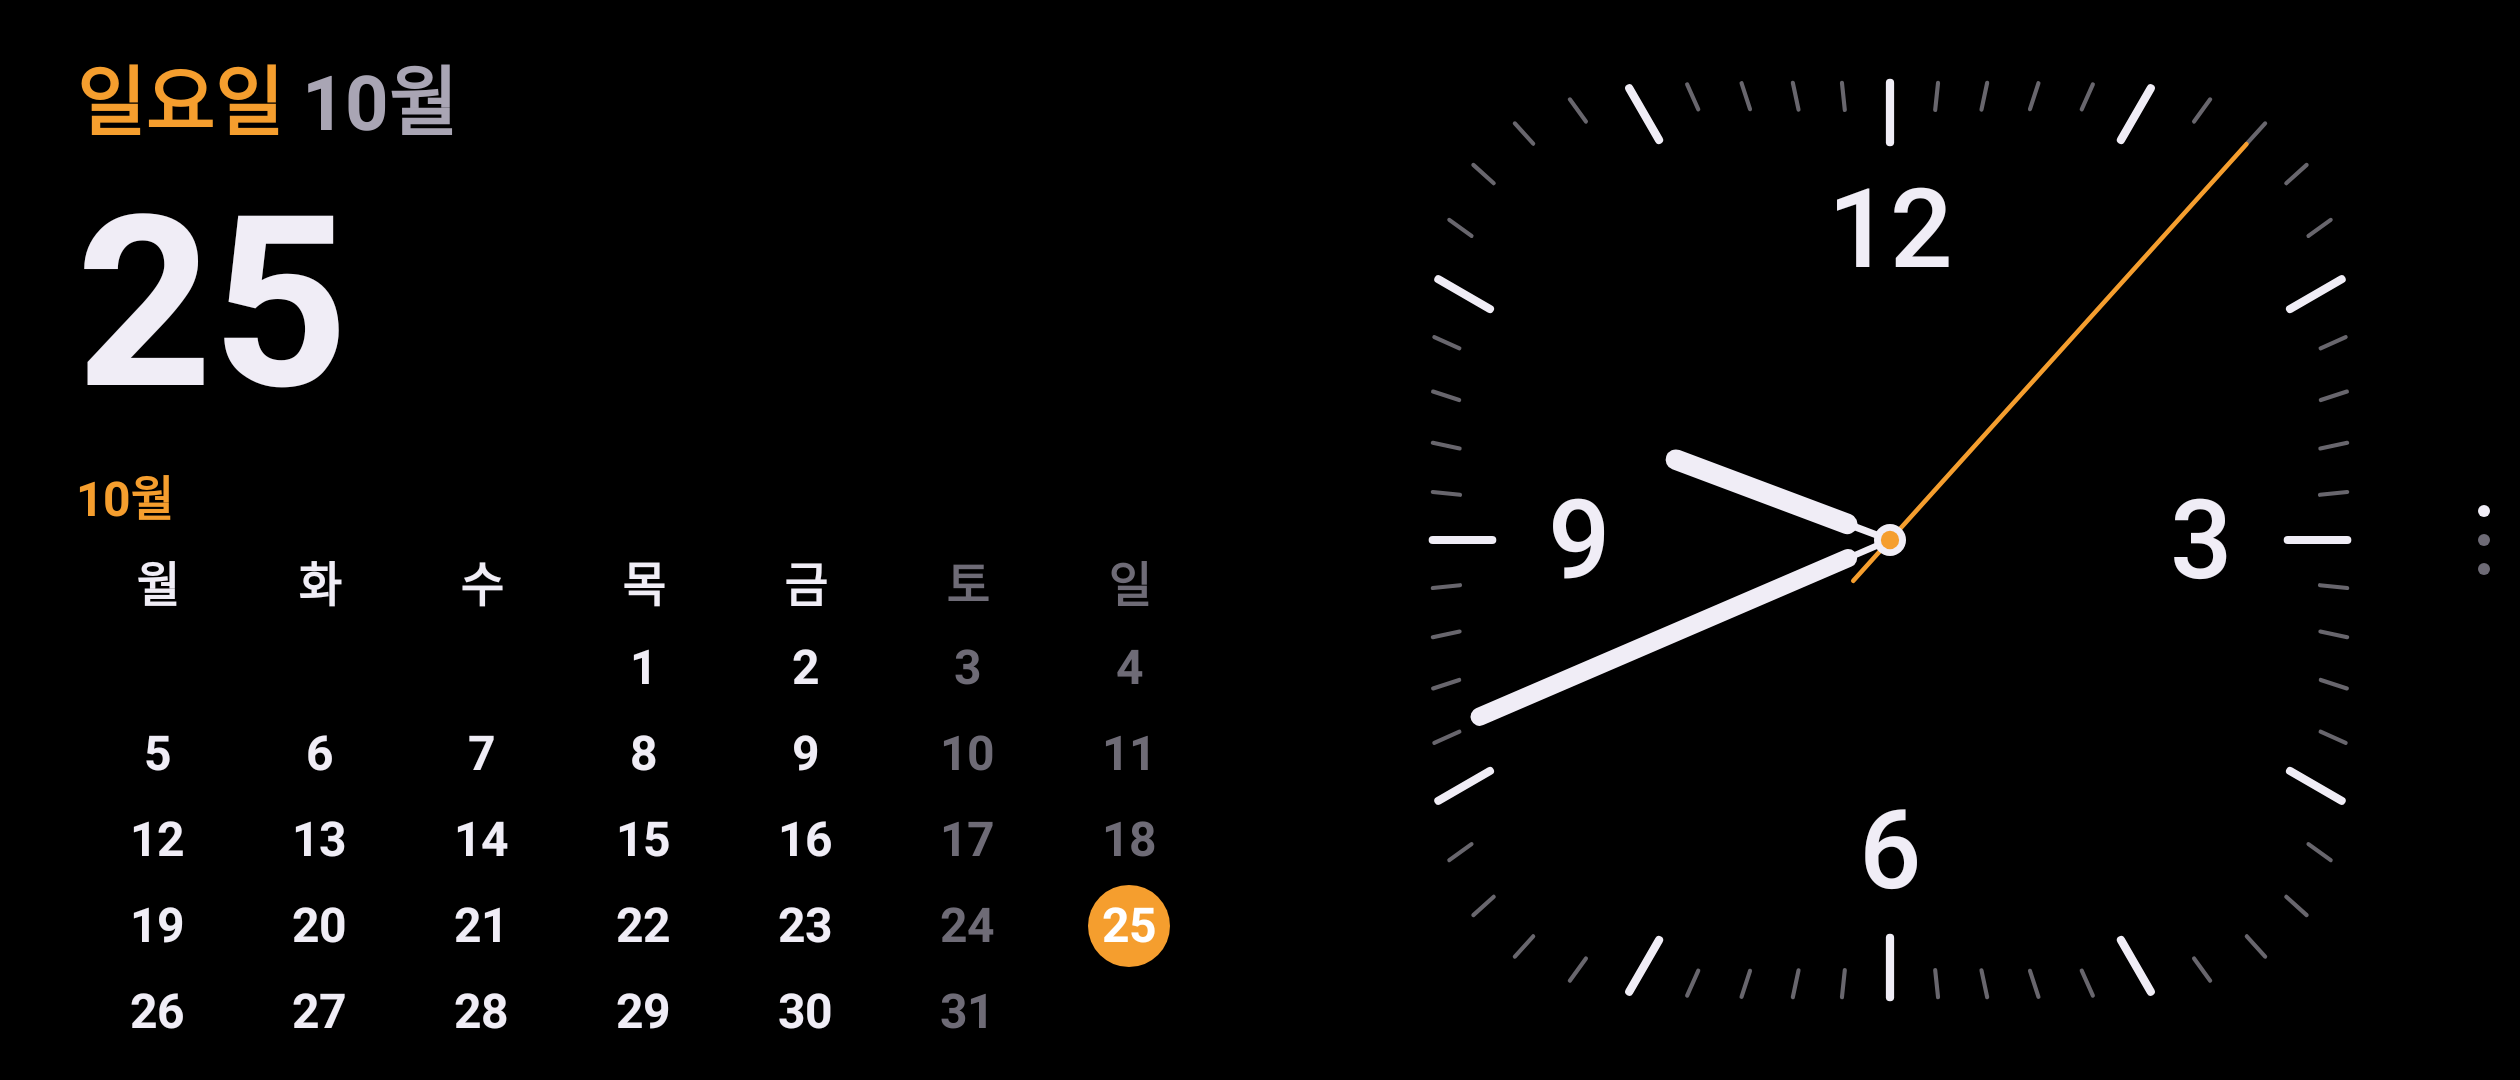
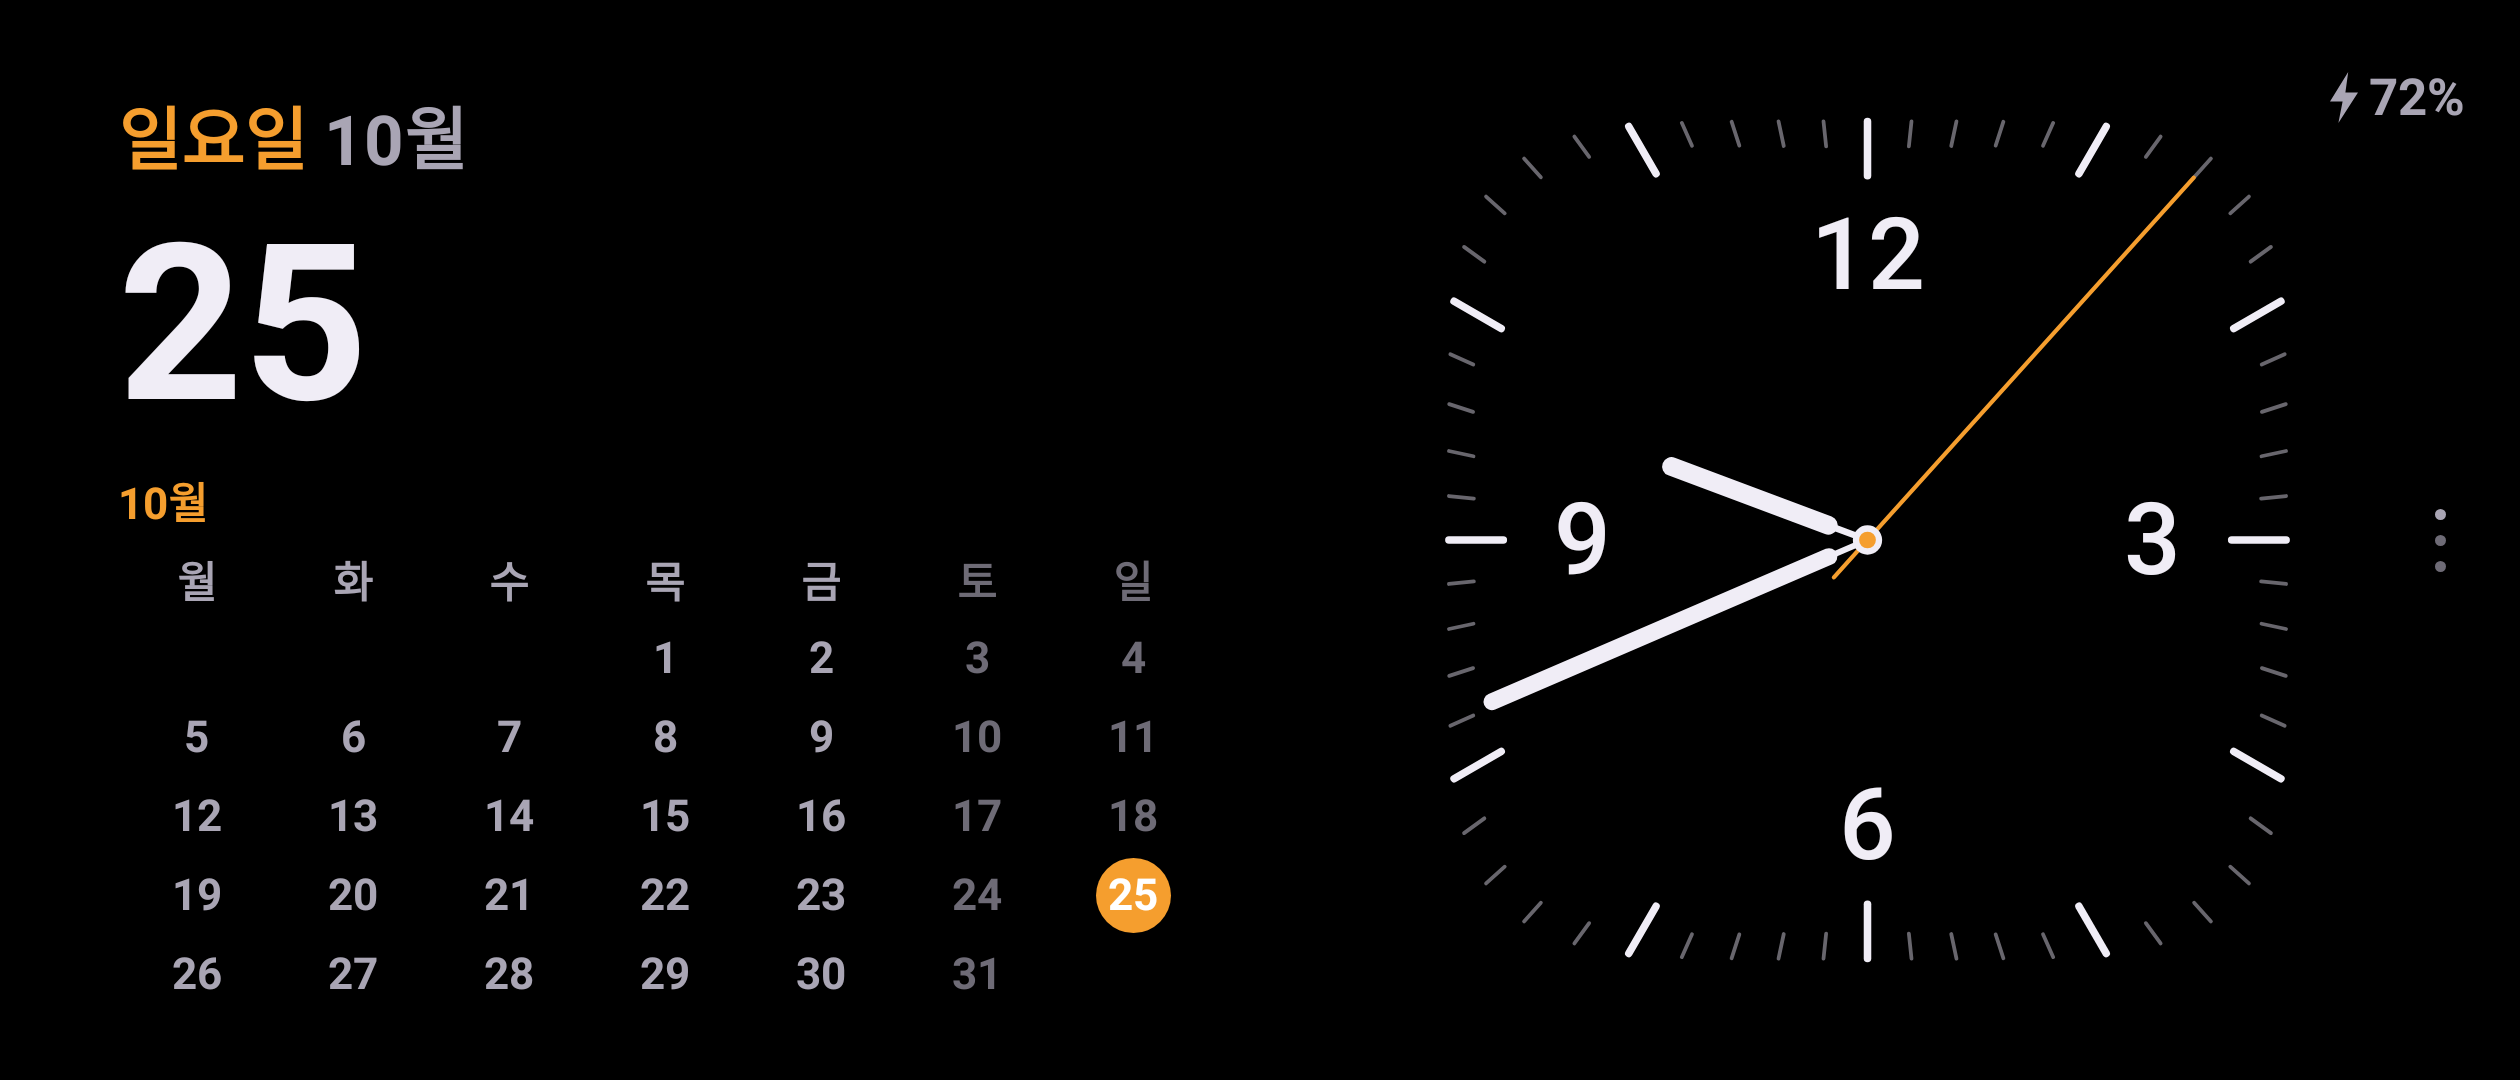
v1.1.0-beta.5: 충전 중 배터리 잔량 표시(versionCode 7)
달력과 시계가 함께 나오는 화면 오른쪽 위에 배터리 잔량을 작은 회색 숫자로 보여준다.
- 실제로 채우는 중일 때만 번개를 붙인다(EXTRA_STATUS). 배터리 보호로 멈췄거나 가득 차면 숫자만.
- 충전이 끊겨도 번개는 5초 뒤에 끈다(무선 충전기 깜빡임 방지).
- 설정에 "배터리 잔량 보이기/숨기기"(기본 보이기).
- 스냅숏 기준 그림, CHANGELOG, README(설정·번인 주의) 갱신.

Claude-Session: https://claude.ai/code/session_01GBcjV4vr6SYp3dQzTQ8mtV

diff --git a/app/src/main/java/com/marksnd/foldstandby/ui/StandbyScreen.kt b/app/src/main/java/com/marksnd/foldstandby/ui/StandbyScreen.kt
@@ -8,7 +8,11 @@ import androidx.compose.foundation.background
 import androidx.compose.foundation.layout.Arrangement
 import androidx.compose.foundation.layout.Box
 import androidx.compose.foundation.layout.BoxWithConstraints
+import androidx.compose.foundation.Canvas
 import androidx.compose.foundation.layout.Column
+import androidx.compose.foundation.layout.Row
+import androidx.compose.foundation.layout.Spacer
+import androidx.compose.foundation.layout.width
 import androidx.compose.foundation.layout.WindowInsets
 import androidx.compose.foundation.layout.displayCutout
 import androidx.compose.foundation.layout.fillMaxSize
@@ -36,6 +40,7 @@ import kotlinx.coroutines.delay
 import androidx.compose.runtime.rememberUpdatedState
 import androidx.compose.runtime.setValue
 import androidx.compose.ui.Alignment
+import androidx.compose.ui.graphics.Path
 import androidx.compose.ui.Modifier
 import androidx.compose.ui.graphics.Brush
 import androidx.compose.ui.graphics.Color
@@ -227,7 +232,7 @@ fun StandbyScreen(
                 // 윗면은 시계, 아랫면은 날짜와 오늘·내일 일정.
                 Column(Modifier.fillMaxSize().padding(range).offset { shift }) {
                     Box(Modifier.fillMaxWidth().weight(1f).windowInsetsPadding(WindowInsets.displayCutout)) {
-                        StandbyPages(store, settings, night, openCount, agenda, nextAlarm, deskBelow = true)
+                        StandbyPages(store, settings, night, openCount, agenda, nextAlarm, deskBelow = true, showBattery = settings.showBattery)
                     }
                     Box(Modifier.fillMaxWidth().weight(1f)) {
                         CalendarFace(today, agenda, showTime = false)
@@ -243,7 +248,7 @@ fun StandbyScreen(
                 ) {
                     val strip = layout == ScreenLayout.WithAgendaStrip
                     Box(Modifier.fillMaxWidth().weight(if (strip) 5f else 1f)) {
-                        StandbyPages(store, settings, night, openCount, agenda, nextAlarm, deskBelow = false)
+                        StandbyPages(store, settings, night, openCount, agenda, nextAlarm, deskBelow = false, showBattery = settings.showBattery)
                     }
                     if (strip) {
                         AgendaStrip(agenda, Modifier.fillMaxWidth().weight(1f))
@@ -282,6 +287,7 @@ private fun StandbyPages(
     agenda: AgendaState,
     nextAlarm: Long?,
     deskBelow: Boolean,
+    showBattery: Boolean,
 ) {
     val korean = LocalKorean.current
     // 열 때마다 시계 보기의 달력+시계로 시작한다(마지막에 본 보기를 기억하지 않는다).
@@ -301,7 +307,7 @@ private fun StandbyPages(
 
     HorizontalPager(pager, Modifier.fillMaxSize()) { page ->
         when (page) {
-            0 -> ClockPage(store, openCount, smoothNow, tick, today, night, photos, weather, media, agenda, nextAlarm, deskBelow)
+            0 -> ClockPage(store, openCount, smoothNow, tick, today, night, photos, weather, media, agenda, nextAlarm, deskBelow, showBattery)
             1 -> WeatherPage(weather)
             else -> NowPlayingPage(media, tick)
         }
@@ -322,13 +328,14 @@ private fun ClockPage(
     agenda: AgendaState,
     nextAlarm: Long?,
     deskBelow: Boolean,
+    showBattery: Boolean,
 ) {
     val inner = innerDisplay()
     BoxWithConstraints(Modifier.fillMaxSize()) {
         if (clockPageLayout(inner, maxWidth, maxHeight, deskBelow) == ClockPageLayout.UnfoldedStack) {
             UnfoldedFace(store, now, tick, today, night, photos, weather, media)
         } else {
-            ClockStyles(openCount, now, today, night, weather, agenda, nextAlarm, deskBelow)
+            ClockStyles(openCount, now, today, night, weather, agenda, nextAlarm, deskBelow, showBattery)
         }
     }
 }
@@ -343,6 +350,7 @@ private fun ClockStyles(
     agenda: AgendaState,
     nextAlarm: Long?,
     deskBelow: Boolean,
+    showBattery: Boolean,
 ) {
     val count = clockStyleCount(deskBelow)
     val styles = rememberPagerState { count }
@@ -367,6 +375,45 @@ private fun ClockStyles(
             }
         }
         StyleDots(count, styles.currentPage, Modifier.align(Alignment.CenterEnd))
+        // 달력과 시계가 함께 나오는 스타일에서만 오른쪽 위에 보인다. 화면 이동 범위 안쪽이라 함께 움직인다.
+        if (showBattery && !deskBelow && styles.currentPage == 0) {
+            BatteryLabel(Modifier.align(Alignment.TopEnd))
+        }
+    }
+}
+
+/** 배터리 잔량: 작은 회색 숫자. 실제로 채우는 중이면 번개를 앞에 붙인다(배터리 보호로 멈췄거나 가득 차면 숫자만). 쉬는 화면·야간은 팔레트가 알아서 어둡게 한다. */
+@Composable
+private fun BatteryLabel(modifier: Modifier) {
+    val battery by LocalStandbySources.current.battery()
+    val color = LocalPalette.current.secondary
+    // 무선 충전기는 충전을 잠깐씩 끊으므로, 번개는 켤 때 바로 켜고 끌 때는 몇 초 기다렸다 끈다(깜빡임 방지).
+    var bolt by remember { mutableStateOf(battery.filling) }
+    LaunchedEffect(battery.filling) {
+        if (!battery.filling) delay(BOLT_OFF_DELAY_MS)
+        bolt = battery.filling
+    }
+    Row(modifier.padding(top = 8.dp, end = 4.dp), verticalAlignment = Alignment.CenterVertically) {
+        if (bolt) {
+            Canvas(Modifier.size(width = 10.dp, height = 18.dp)) {
+                val w = size.width
+                val h = size.height
+                drawPath(
+                    Path().apply {
+                        moveTo(w * 0.65f, 0f)
+                        lineTo(0f, h * 0.58f)
+                        lineTo(w * 0.45f, h * 0.58f)
+                        lineTo(w * 0.3f, h)
+                        lineTo(w, h * 0.4f)
+                        lineTo(w * 0.55f, h * 0.4f)
+                        close()
+                    },
+                    color,
+                )
+            }
+            Spacer(Modifier.width(4.dp))
+        }
+        Label("${battery.percent}%", 18.dp, color)
     }
 }
 
@@ -387,3 +434,6 @@ fun StyleDots(count: Int, current: Int, modifier: Modifier) {
         }
     }
 }
+
+/** 충전이 끊긴 뒤 번개를 끄기까지 기다리는 시간. 무선 충전기가 충전을 다시 알리기까지 걸리는 시간보다 길게. */
+private const val BOLT_OFF_DELAY_MS = 5_000L

diff --git a/app/src/main/java/com/marksnd/foldstandby/ui/StandbySources.kt b/app/src/main/java/com/marksnd/foldstandby/ui/StandbySources.kt
@@ -8,10 +8,12 @@ import androidx.compose.runtime.staticCompositionLocalOf
 import androidx.compose.ui.graphics.ImageBitmap
 import androidx.compose.ui.unit.IntOffset
 import com.marksnd.foldstandby.data.AgendaState
+import com.marksnd.foldstandby.data.BatteryInfo
 import com.marksnd.foldstandby.data.MediaState
 import com.marksnd.foldstandby.data.WeatherState
 import com.marksnd.foldstandby.data.rememberAgenda
 import com.marksnd.foldstandby.data.rememberAlbumPhotos
+import com.marksnd.foldstandby.data.rememberBattery
 import com.marksnd.foldstandby.data.rememberIsDark
 import com.marksnd.foldstandby.data.rememberLastMotion
 import com.marksnd.foldstandby.data.rememberLocked
@@ -36,6 +38,7 @@ interface StandbySources {
     @Composable fun nowPlaying(): State<MediaState>
     @Composable fun albumPhotos(albumId: Long?): State<List<Uri>>
     @Composable fun nextAlarm(): State<Long?>
+    @Composable fun battery(): State<BatteryInfo>
     @Composable fun isDark(): State<Boolean>
     @Composable fun lastMotion(enabled: Boolean): State<Long>
     @Composable fun pixelShift(rangePx: Int): State<IntOffset>
@@ -53,6 +56,7 @@ object LiveSources : StandbySources {
     @Composable override fun nowPlaying() = rememberNowPlaying()
     @Composable override fun albumPhotos(albumId: Long?) = rememberAlbumPhotos(albumId)
     @Composable override fun nextAlarm() = rememberNextAlarm()
+    @Composable override fun battery() = rememberBattery()
     @Composable override fun isDark() = rememberIsDark()
     @Composable override fun lastMotion(enabled: Boolean) = rememberLastMotion(enabled)
     @Composable override fun pixelShift(rangePx: Int) = rememberPixelShift(rangePx)

diff --git a/app/src/main/java/com/marksnd/foldstandby/data/Settings.kt b/app/src/main/java/com/marksnd/foldstandby/data/Settings.kt
@@ -24,6 +24,8 @@ data class Settings(
     val wakeOnMotion: Boolean = true,
     /** 온도를 화씨로. 날씨는 섭씨로 받아 두고 그릴 때만 바꾼다. */
     val fahrenheit: Boolean = false,
+    /** 달력과 시계가 나오는 화면 오른쪽 위에 배터리 잔량을 작게 보여줄지. */
+    val showBattery: Boolean = true,
     /** 루틴이 열었는데 잠금이 풀려 있으면(폰을 쓰는 중) 바로 닫는다. 차에서 내비게이션을 밀어내지 않게. */
     val routineOnlyLocked: Boolean = true,
     /** 펼친 화면 오른쪽에 시계 대신 사진을 보여줄지. */
@@ -46,6 +48,7 @@ class SettingsStore(context: Context) {
         alarmGlow = prefs.getBoolean(ALARM_GLOW, true),
         wakeOnMotion = prefs.getBoolean(WAKE_ON_MOTION, true),
         fahrenheit = prefs.getBoolean(FAHRENHEIT, false),
+        showBattery = prefs.getBoolean(SHOW_BATTERY, true),
         routineOnlyLocked = prefs.getBoolean(ROUTINE_ONLY_LOCKED, true),
         unfoldedPhotos = prefs.getBoolean(UNFOLDED_PHOTOS, true),
         photoAlbumId = prefs.getLong(PHOTO_ALBUM_ID, 0L).takeIf { prefs.contains(PHOTO_ALBUM_ID) },
@@ -77,6 +80,7 @@ class SettingsStore(context: Context) {
         const val ALARM_GLOW = "alarmGlow"
         const val WAKE_ON_MOTION = "wakeOnMotion"
         const val FAHRENHEIT = "fahrenheit"
+        const val SHOW_BATTERY = "showBattery"
         const val ROUTINE_ONLY_LOCKED = "routineOnlyLocked"
         const val REST_HINT_SEEN = "restHintSeen"
         const val UNFOLDED_PHOTOS = "unfoldedPhotos"

diff --git a/app/src/main/java/com/marksnd/foldstandby/data/Device.kt b/app/src/main/java/com/marksnd/foldstandby/data/Device.kt
@@ -22,15 +22,18 @@ import kotlinx.coroutines.delay
 import kotlinx.coroutines.isActive
 import java.time.LocalTime
 
-data class BatteryInfo(val percent: Int, val plugged: Int) {
+data class BatteryInfo(val percent: Int, val plugged: Int, val status: Int = BatteryManager.BATTERY_STATUS_UNKNOWN) {
     val charging get() = plugged != 0
+
+    /** 지금 실제로 채우는 중인지. 꽂혀 있어도 배터리 보호로 멈췄거나 가득 찼으면 false. */
+    val filling get() = charging && status == BatteryManager.BATTERY_STATUS_CHARGING
     val wireless get() = plugged == BatteryManager.BATTERY_PLUGGED_WIRELESS
 }
 
 private fun Intent.toBattery(): BatteryInfo {
     val level = getIntExtra(BatteryManager.EXTRA_LEVEL, 0)
     val scale = getIntExtra(BatteryManager.EXTRA_SCALE, 100).coerceAtLeast(1)
-    return BatteryInfo(level * 100 / scale, getIntExtra(BatteryManager.EXTRA_PLUGGED, 0))
+    return BatteryInfo(level * 100 / scale, getIntExtra(BatteryManager.EXTRA_PLUGGED, 0), getIntExtra(BatteryManager.EXTRA_STATUS, BatteryManager.BATTERY_STATUS_UNKNOWN))
 }
 
 @Composable

diff --git a/app/src/test/java/com/marksnd/foldstandby/ui/FixedSources.kt b/app/src/test/java/com/marksnd/foldstandby/ui/FixedSources.kt
@@ -86,6 +86,7 @@ class FixedSources(
     @Composable override fun agenda(refreshKey: Int) = fixed(agendaState)
     @Composable override fun nowPlaying() = fixed(media)
     @Composable override fun albumPhotos(albumId: Long?) = fixed(if (albumId != null) listOf(photo) else emptyList())
+    @Composable override fun battery() = fixed(com.marksnd.foldstandby.data.BatteryInfo(72, android.os.BatteryManager.BATTERY_PLUGGED_AC, android.os.BatteryManager.BATTERY_STATUS_CHARGING))
     @Composable override fun nextAlarm() = fixed(alarmInMinutes?.let { nowMs + it * 60_000 })
     @Composable override fun isDark() = fixed(dark)
     @Composable override fun lastMotion(enabled: Boolean) = fixed(nowMs)

diff --git a/app/src/main/java/com/marksnd/foldstandby/MainActivity.kt b/app/src/main/java/com/marksnd/foldstandby/MainActivity.kt
@@ -191,6 +191,9 @@ private fun SetupScreen() {
                 ChoiceRow("온도 단위", listOf("섭씨 °C", "화씨 °F"), if (settings.fahrenheit) 1 else 0) {
                     store.update { putBoolean(SettingsStore.FAHRENHEIT, it == 1) }
                 }
+                ChoiceRow("배터리 잔량", listOf("보이기", "숨기기"), if (settings.showBattery) 0 else 1) {
+                    store.update { putBoolean(SettingsStore.SHOW_BATTERY, it == 0) }
+                }
 
                 SectionTitle("펼친 화면 오른쪽 스택")
                 Text(

diff --git a/README.md b/README.md
@@ -54,7 +54,7 @@ Android 12 이상의 갤럭시라면 설치하고 쓸
 ### 1. APK 파일 받기
 
 1. 폰에서 이 페이지를 열어요.
-2. [내려받기](https://github.com/svmark/standface/releases) 페이지 맨 위(가장 최근 버전)의 **Assets** 아래에서 `Standface-`로 시작하는 `.apk` 파일(예: `Standface-1.1.0-beta.4.apk`)을 눌러 내려받아요. 지금 나와 있는 버전은 테스트판 v1.1.0-beta.4라서 **Pre-release** 표시가 붙어 있어요.
+2. [내려받기](https://github.com/svmark/standface/releases) 페이지 맨 위(가장 최근 버전)의 **Assets** 아래에서 `Standface-`로 시작하는 `.apk` 파일(예: `Standface-1.1.0-beta.5.apk`)을 눌러 내려받아요. 지금 나와 있는 버전은 테스트판 v1.1.0-beta.5라서 **Pre-release** 표시가 붙어 있어요.
 3. "이 유형의 파일은 기기를 손상시킬 수 있습니다" 같은 안내가 나오면 **다운로드**를 눌러요.
 
 ### 2. 자동 차단 끄기 (켜져 있을 때만)
@@ -122,6 +122,7 @@ Android 12 이상의 갤럭시라면 설치하고 쓸
 - **강조색**: 주황(기본)·노랑·흰색·민트·분홍
 - **야간 모드**: 자동이면 방이 어두울 때 화면 전체가 어두운 빨강으로 바뀌어요.
 - **온도 단위**: 섭씨(기본) 또는 화씨
+- **배터리 잔량**: 달력과 시계가 나오는 화면 오른쪽 위에 보이거나(기본) 숨겨요.
 - **펼친 화면 오른쪽 스택**: 폴드를 펼쳤을 때 사진을 보여줄 앨범을 골라요.
 - **침대 옆 시계**: 알람 전 은은한 빛, 가만히 두면 쉬기를 켜고 끌 수 있어요(아래 설명).
 
@@ -169,6 +170,7 @@ Android 12 이상의 갤럭시라면 설치하고 쓸
 - 낮에 10분 동안 아무도 만지지 않으면 쉬는 화면이 돼요. 밝기를 30%로 낮추고, 큰 숫자는 속이 빈 외곽선으로, 해 그림은 고리로 바꿔요.
 - 방이 어두우면 화면을 어두운 빨강으로 바꾸고 밝기를 아주 낮춰요. 어두운 방에서 1분 동안 가만히 두면 화면을 거의 꺼요.
 - 하루 종일 바뀌지 않는 달력 숫자와 요일, 페이지 점은 흰색 대신 회색으로 그려요.
+- 배터리 잔량(v1.1.0-beta.5부터)도 작은 회색 숫자로 그리고, 화면과 함께 움직이게 해요. 숫자는 퍼센트가 바뀔 때마다 달라지고, 번개 모양만 충전 중에 붙어요.
 
 **아직 남은 위험**
 - 쉬는 화면도 꺼진 화면은 아니에요. 몇 주, 몇 달씩 매일 오래 켜 두면 조금씩 닳아요.
@@ -179,6 +181,7 @@ Android 12 이상의 갤럭시라면 설치하고 쓸
 - 폰 화면 밝기를 낮게 두세요. 밝을수록 빨리 닳아요.
 - 설정 › 침대 옆 시계의 "가만히 두면 쉬기"는 켜 두세요.
 - 걱정되면 설정에서 야간 모드를 "항상"으로 두세요. 낮에도 어두운 빨강 화면이 돼요.
+- 오른쪽 위 배터리 숫자도 같은 자리에 오래 남으니, 필요 없으면 설정에서 "배터리 잔량"을 숨기세요.
 
 번인으로 생긴 화면 손상은 책임질 수 없으니, 위 내용을 읽고 판단해서 사용해 주세요.
 

diff --git a/CHANGELOG.md b/CHANGELOG.md
@@ -2,6 +2,10 @@
 
 버전 번호와 릴리스 순서는 [RELEASING.md](RELEASING.md)를 봐요.
 
+## 1.1.0-beta.5 · 2026-10-31 (테스트판)
+
+- **배터리 잔량**: 달력과 시계가 함께 나오는 화면 오른쪽 위에 `72%`처럼 작은 회색 숫자로 보여요. 충전하는 중에는 앞에 번개 모양이 붙어요. 꽂혀 있어도 배터리 보호로 충전이 멈췄거나 가득 찼으면 숫자만 나와요. 화면과 함께 움직이고, 쉬는 화면과 야간 모드에서는 더 어두워져요. 설정에서 숨길 수 있어요(제보: 충전 중 배터리량을 보고 싶어요).
+
 ## 1.1.0-beta.4 · 2026-10-27 (테스트판)
 
 번인(화면에 남는 자국)을 줄이는 기능과 사용자 요청을 넣은 테스트판이에요.
